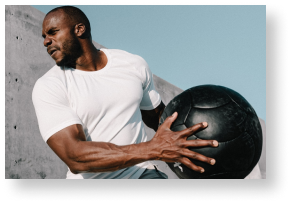
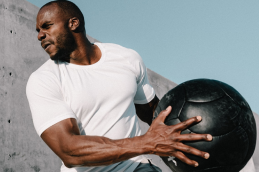
fixing cards images

diff --git a/css/index.css b/css/index.css
@@ -209,11 +209,11 @@ h3 {
 .cards {
     display: flex;
     width: 100%;
-    justify-content: space-around;
+    justify-content: space-between;
 }
 
 .card {
-    width: 25%;
+    width: 22%;
     background: var(--bright-color);
 }
 
